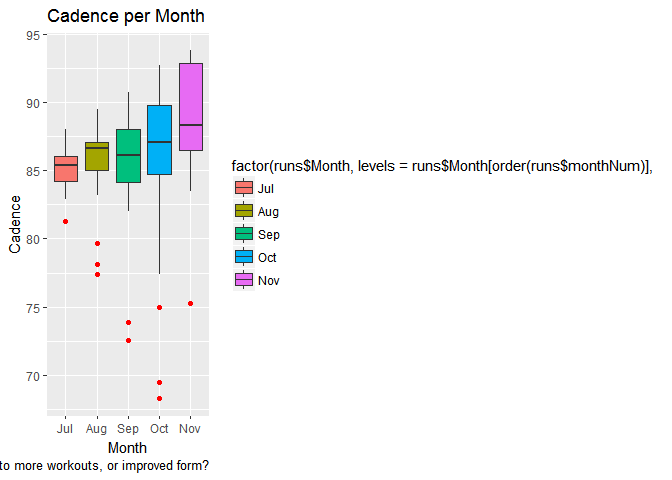
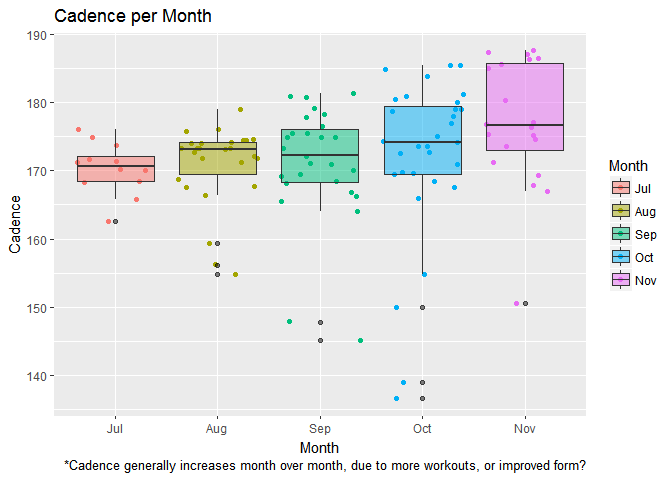
Edit new changes to different variables in dataset, edit some visualizations, and add some new visualizations

diff --git a/R_Analysis_git.md b/R_Analysis_git.md
@@ -16,64 +16,86 @@ runs <- read.csv("cleanedMarathonTrainingData.csv")
 str(runs)
 ```
 
-    ## 'data.frame':    117 obs. of  19 variables:
-    ##  $ X                  : int  12 15 94 4 6 8 13 16 95 5 ...
-    ##  $ ID                 : int  646029304 647216014 648410753 649445500 650512799 651933678 653912805 655096239 656203325 657259723 ...
-    ##  $ Name               : Factor w/ 13 levels "10k Tune Up Run",..: 2 7 10 3 10 4 3 7 10 7 ...
-    ##  $ Gear               : Factor w/ 4 levels "ASICS dunno Black, Yellow, Red",..: 2 2 1 2 1 2 2 2 1 2 ...
-    ##  $ Date               : Factor w/ 116 levels "2016-07-19","2016-07-20",..: 1 2 3 4 5 6 7 8 9 10 ...
-    ##  $ Month              : Factor w/ 5 levels "Aug","Jul","Nov",..: 2 2 2 2 2 2 2 2 2 2 ...
-    ##  $ monthNum           : int  7 7 7 7 7 7 7 7 7 7 ...
-    ##  $ DOW                : Factor w/ 7 levels "Fri","Mon","Sat",..: 6 7 5 1 3 4 6 7 5 1 ...
-    ##  $ StartTime          : Factor w/ 90 levels "10:01","10:09",..: 58 51 67 46 71 76 46 37 64 36 ...
-    ##  $ Distance           : num  9.01 11 4 11 6 ...
-    ##  $ Time               : Factor w/ 115 levels "1:00:53","1:02:08",..: 4 23 81 28 98 60 13 41 72 37 ...
-    ##  $ Avg.Speed.Avg.Pace.: Factor w/ 68 levels "6:32","6:54",..: 13 32 58 38 55 39 33 41 48 49 ...
-    ##  $ Speed.mph          : num  3.72 3.54 3.29 3.49 3.33 ...
-    ##  $ Cad                : num  84.2 84.2 85.6 88 86.9 85 82.9 87.4 85.8 85.1 ...
-    ##  $ Elevation.Gain     : Factor w/ 92 levels "--","0","13",..: 37 56 1 58 15 80 48 61 1 60 ...
-    ##  $ Avg.HR             : Factor w/ 39 levels "--","100","113",..: 34 35 24 35 17 37 35 31 19 34 ...
-    ##  $ Max.HR             : Factor w/ 49 levels "--","118","122",..: 37 30 19 31 25 35 29 28 13 30 ...
-    ##  $ Calories           : Factor w/ 113 levels "1,018","1,021",..: 110 19 71 18 94 46 11 28 62 22 ...
-    ##  $ RunType            : Factor w/ 5 levels "Long Run","Race",..: 5 4 3 4 3 1 4 4 3 4 ...
+    ## 'data.frame':    116 obs. of  19 variables:
+    ##  $ X             : int  12 15 94 4 6 8 13 16 95 5 ...
+    ##  $ ID            : int  646029304 647216014 648410753 649445500 650512799 651933678 653912805 655096239 656203325 657259723 ...
+    ##  $ Name          : Factor w/ 13 levels "10k Tune Up Run",..: 2 7 10 3 10 4 3 7 10 7 ...
+    ##  $ Gear          : Factor w/ 4 levels "ASICS dunno Black, Yellow, Red",..: 2 2 1 2 1 2 2 2 1 2 ...
+    ##  $ Date          : Factor w/ 116 levels "2016-07-19","2016-07-20",..: 1 2 3 4 5 6 7 8 9 10 ...
+    ##  $ Month         : Factor w/ 5 levels "Aug","Jul","Nov",..: 2 2 2 2 2 2 2 2 2 2 ...
+    ##  $ monthNum      : int  7 7 7 7 7 7 7 7 7 7 ...
+    ##  $ DOW           : Factor w/ 7 levels "Fri","Mon","Sat",..: 6 7 5 1 3 4 6 7 5 1 ...
+    ##  $ StartTime     : Factor w/ 89 levels "10:01","10:09",..: 57 50 66 45 70 75 45 36 63 35 ...
+    ##  $ Distance      : num  9.01 11 4 11 6 ...
+    ##  $ Time          : Factor w/ 114 levels "2017-03-08 00:07:43",..: 50 69 14 74 31 103 59 87 6 83 ...
+    ##  $ Speed.mph     : num  3.72 3.54 3.29 3.49 3.33 ...
+    ##  $ Cad           : num  168 168 171 176 174 ...
+    ##  $ Elevation.Gain: int  351 461 NA 468 230 572 400 485 NA 477 ...
+    ##  $ Avg.HR        : int  149 150 139 150 131 154 150 146 134 149 ...
+    ##  $ Max.HR        : int  167 160 149 161 155 165 159 158 142 160 ...
+    ##  $ Calories      : int  943 1176 442 1170 721 1653 1090 1318 314 1241 ...
+    ##  $ RunType       : Factor w/ 5 levels "Long Run","Race",..: 5 4 3 4 3 1 4 4 3 4 ...
+    ##  $ Avg.Pace      : Factor w/ 67 levels "2017-03-08 00:06:32",..: 13 32 57 38 55 39 33 41 48 49 ...
 
 remove 1st col
 ==============
 
 ``` r
 runs$X <- NULL
+head(runs,2)
+```
+
+    ##          ID           Name                   Gear       Date Month
+    ## 1 646029304 Classic LT Run Brooks Ghost Red/Black 2016-07-19   Jul
+    ## 2 647216014         ML Run Brooks Ghost Red/Black 2016-07-20   Jul
+    ##   monthNum DOW StartTime Distance                Time Speed.mph   Cad
+    ## 1        7 Tue      5:51     9.01 2017-03-08 01:04:59    3.7179 168.4
+    ## 2        7 Wed      5:36    11.00 2017-03-08 01:23:29    3.5350 168.4
+    ##   Elevation.Gain Avg.HR Max.HR Calories RunType            Avg.Pace
+    ## 1            351    149    167      943 Workout 2017-03-08 00:07:13
+    ## 2            461    150    160     1176     Run 2017-03-08 00:07:35
+
+can't save POSIXct into CSV, must change here
+=============================================
+
+``` r
+runs$Time <- as.POSIXct(runs$Time)#, format = '%H:%M:%S')
+runs$Avg.Pace <- as.POSIXct(runs$Avg.Pace)#, format = '%H:%M:%S')
 str(runs)
 ```
 
-    ## 'data.frame':    117 obs. of  18 variables:
-    ##  $ ID                 : int  646029304 647216014 648410753 649445500 650512799 651933678 653912805 655096239 656203325 657259723 ...
-    ##  $ Name               : Factor w/ 13 levels "10k Tune Up Run",..: 2 7 10 3 10 4 3 7 10 7 ...
-    ##  $ Gear               : Factor w/ 4 levels "ASICS dunno Black, Yellow, Red",..: 2 2 1 2 1 2 2 2 1 2 ...
-    ##  $ Date               : Factor w/ 116 levels "2016-07-19","2016-07-20",..: 1 2 3 4 5 6 7 8 9 10 ...
-    ##  $ Month              : Factor w/ 5 levels "Aug","Jul","Nov",..: 2 2 2 2 2 2 2 2 2 2 ...
-    ##  $ monthNum           : int  7 7 7 7 7 7 7 7 7 7 ...
-    ##  $ DOW                : Factor w/ 7 levels "Fri","Mon","Sat",..: 6 7 5 1 3 4 6 7 5 1 ...
-    ##  $ StartTime          : Factor w/ 90 levels "10:01","10:09",..: 58 51 67 46 71 76 46 37 64 36 ...
-    ##  $ Distance           : num  9.01 11 4 11 6 ...
-    ##  $ Time               : Factor w/ 115 levels "1:00:53","1:02:08",..: 4 23 81 28 98 60 13 41 72 37 ...
-    ##  $ Avg.Speed.Avg.Pace.: Factor w/ 68 levels "6:32","6:54",..: 13 32 58 38 55 39 33 41 48 49 ...
-    ##  $ Speed.mph          : num  3.72 3.54 3.29 3.49 3.33 ...
-    ##  $ Cad                : num  84.2 84.2 85.6 88 86.9 85 82.9 87.4 85.8 85.1 ...
-    ##  $ Elevation.Gain     : Factor w/ 92 levels "--","0","13",..: 37 56 1 58 15 80 48 61 1 60 ...
-    ##  $ Avg.HR             : Factor w/ 39 levels "--","100","113",..: 34 35 24 35 17 37 35 31 19 34 ...
-    ##  $ Max.HR             : Factor w/ 49 levels "--","118","122",..: 37 30 19 31 25 35 29 28 13 30 ...
-    ##  $ Calories           : Factor w/ 113 levels "1,018","1,021",..: 110 19 71 18 94 46 11 28 62 22 ...
-    ##  $ RunType            : Factor w/ 5 levels "Long Run","Race",..: 5 4 3 4 3 1 4 4 3 4 ...
+    ## 'data.frame':    116 obs. of  18 variables:
+    ##  $ ID            : int  646029304 647216014 648410753 649445500 650512799 651933678 653912805 655096239 656203325 657259723 ...
+    ##  $ Name          : Factor w/ 13 levels "10k Tune Up Run",..: 2 7 10 3 10 4 3 7 10 7 ...
+    ##  $ Gear          : Factor w/ 4 levels "ASICS dunno Black, Yellow, Red",..: 2 2 1 2 1 2 2 2 1 2 ...
+    ##  $ Date          : Factor w/ 116 levels "2016-07-19","2016-07-20",..: 1 2 3 4 5 6 7 8 9 10 ...
+    ##  $ Month         : Factor w/ 5 levels "Aug","Jul","Nov",..: 2 2 2 2 2 2 2 2 2 2 ...
+    ##  $ monthNum      : int  7 7 7 7 7 7 7 7 7 7 ...
+    ##  $ DOW           : Factor w/ 7 levels "Fri","Mon","Sat",..: 6 7 5 1 3 4 6 7 5 1 ...
+    ##  $ StartTime     : Factor w/ 89 levels "10:01","10:09",..: 57 50 66 45 70 75 45 36 63 35 ...
+    ##  $ Distance      : num  9.01 11 4 11 6 ...
+    ##  $ Time          : POSIXct, format: "2017-03-08 01:04:59" "2017-03-08 01:23:29" ...
+    ##  $ Speed.mph     : num  3.72 3.54 3.29 3.49 3.33 ...
+    ##  $ Cad           : num  168 168 171 176 174 ...
+    ##  $ Elevation.Gain: int  351 461 NA 468 230 572 400 485 NA 477 ...
+    ##  $ Avg.HR        : int  149 150 139 150 131 154 150 146 134 149 ...
+    ##  $ Max.HR        : int  167 160 149 161 155 165 159 158 142 160 ...
+    ##  $ Calories      : int  943 1176 442 1170 721 1653 1090 1318 314 1241 ...
+    ##  $ RunType       : Factor w/ 5 levels "Long Run","Race",..: 5 4 3 4 3 1 4 4 3 4 ...
+    ##  $ Avg.Pace      : POSIXct, format: "2017-03-08 00:07:13" "2017-03-08 00:07:35" ...
 
-put month name labels to monthNum to display names in numerical in order
-========================================================================
+can't save ordered factors in CSV, must change here
+===================================================
 
 ``` r
-runs$monthNum <- factor(runs$monthNum,labels = unique(runs$Month[order(runs$monthNum)]))
+runs$Month <- factor(runs$Month, ordered = TRUE, levels = c("Jul","Aug","Sep","Oct","Nov"))
+class(runs$Month)
 ```
 
-load ggplot2
-============
+    ## [1] "ordered" "factor"
+
+load ggplot2 + make histogram
+=============================
 
 ``` r
 library(ggplot2)
@@ -84,17 +106,30 @@ ggplot(data = runs, aes(x = Distance)) +
   xlab("Distance (mi)") + 
   ylab("Frequency") + 
   ggtitle("Distribution of Miles Ran in All Runs") + 
-  labs(caption="*Majority of runs were between 9 and 11 miles, with a suprisingly low number of runs between 7 and 9 miles")
+  labs(caption="*Majority of runs were between 9 and 11 miles, 
+       with a suprisingly low number of runs between 7 and 9 miles")
 ```
 
 ![](R_Analysis_git_files/figure-markdown_github/plotting-1.png)
 
 ``` r
-ggplot(data = runs, aes(x = monthNum, y = Distance, fill = Month)) + 
+#check data
+tapply(runs$Distance,runs$Month,sum)
+```
+
+    ##    Jul    Aug    Sep    Oct    Nov 
+    ## 118.08 250.08 308.14 304.45 168.44
+
+miles by month bars
+===================
+
+``` r
+ggplot(data = runs, aes(x = Month, y = Distance, fill = Month)) + 
   geom_bar(stat="identity") +
   xlab("Month") + 
   ylab("Total Miles") + 
-  coord_flip() + 
+  #coord_flip() + 
+  #scale_x_discrete(limits = rev(levels(runs$Month))) +
   #geom_text(vjust=0, colour="red") +
   ggtitle("Sum of Miles by Month") + 
   labs(caption="*The largest number of miles ran, 308 miles, was in September")
@@ -102,51 +137,70 @@ ggplot(data = runs, aes(x = monthNum, y = Distance, fill = Month)) +
 
 ![](R_Analysis_git_files/figure-markdown_github/miles%20by%20month-1.png)
 
+avg. cadence grouped by month
+=============================
+
 ``` r
-ggplot(data = runs, aes(monthNum, Cad)) + 
-  geom_boxplot(aes(fill = factor(runs$Month, levels = runs$Month[order(runs$monthNum)], ordered = TRUE)), 
-               outlier.colour = "red") + #geom_jitter()
+ggplot(data = runs, aes(Month, Cad)) + 
+  geom_jitter(aes(colour = Month)) +
+  geom_boxplot(aes(fill = Month), 
+               outlier.colour = "black", alpha = 0.5) + #geom_jitter()
   xlab("Month") + 
   ylab("Cadence") + 
   ggtitle("Cadence per Month") + 
   labs(caption="*Cadence generally increases month over month, due to more workouts, or improved form?")
 ```
 
-    ## Warning in `levels<-`(`*tmp*`, value = if (nl == nL) as.character(labels)
-    ## else paste0(labels, : duplicated levels in factors are deprecated
-
-    ## Warning in `levels<-`(`*tmp*`, value = if (nl == nL) as.character(labels)
-    ## else paste0(labels, : duplicated levels in factors are deprecated
-
-    ## Warning in `levels<-`(`*tmp*`, value = if (nl == nL) as.character(labels)
-    ## else paste0(labels, : duplicated levels in factors are deprecated
-
-    ## Warning in `levels<-`(`*tmp*`, value = if (nl == nL) as.character(labels)
-    ## else paste0(labels, : duplicated levels in factors are deprecated
-
-    ## Warning in `levels<-`(`*tmp*`, value = if (nl == nL) as.character(labels)
-    ## else paste0(labels, : duplicated levels in factors are deprecated
-
-    ## Warning in `levels<-`(`*tmp*`, value = if (nl == nL) as.character(labels)
-    ## else paste0(labels, : duplicated levels in factors are deprecated
-
-    ## Warning in `levels<-`(`*tmp*`, value = if (nl == nL) as.character(labels)
-    ## else paste0(labels, : duplicated levels in factors are deprecated
-
-    ## Warning in `levels<-`(`*tmp*`, value = if (nl == nL) as.character(labels)
-    ## else paste0(labels, : duplicated levels in factors are deprecated
-
 ![](R_Analysis_git_files/figure-markdown_github/cadence%20by%20month-1.png)
+
+avg. HR grouped by month
+========================
+
+``` r
+ggplot(data = runs, aes(Month, Avg.HR)) + 
+  geom_jitter(aes(colour = Month)) +
+  geom_boxplot(aes(fill = Month), 
+               outlier.colour = "black", alpha = 0.5) + #geom_jitter()
+  xlab("Month") + 
+  ylab("Cadence") + 
+  ggtitle("Cadence per Month") + 
+  labs(caption="*HR generally decreases month over month --> increased fitness or cooler weather?")
+```
+
+![](R_Analysis_git_files/figure-markdown_github/HR%20by%20month%20boxplot-1.png)
+
+``` r
+#tbl <- tapply(runs$Avg.HR,runs$Month,median)
+```
+
+average heart rate per run over plan --&gt; line
+================================================
 
 ``` r
 ggplot(data = runs, aes(x = Date, y = Avg.HR)) + 
   geom_line(aes(group=1)) +
-  theme(axis.text.x = element_text(size=0, angle=45)) +
+  theme(axis.text.x = element_blank()) +
   xlab("Time") + 
   ylab("Average Heart Rate") + 
   ggtitle("Average Heart Rate Over Time") + 
-  labs(caption="*Looks like a very slight general decrease, with an outlier of about 100 in the 1st third of the plan
-      and 70 in the last 3rd of the plan")
+  labs(caption="*Very slight general decrease, with outliers of about 100 in the 1st third of the plan and 
+70 in the last 3rd of the plan")
 ```
 
 ![](R_Analysis_git_files/figure-markdown_github/HR%20over%20time-1.png)
+
+average pace over plan line
+===========================
+
+``` r
+ggplot(data = runs, aes(x = Date, y = Avg.Pace)) + 
+  geom_point() + # by color? 
+  #?stat_smooth() + 
+  theme(axis.text.x = element_blank()) +
+  xlab("Time") + 
+  ylab("Average Heart Rate") + 
+  ggtitle("Average Heart Rate Over Time") + 
+  labs(caption="*Very slight general decrease, but not linear")
+```
+
+![](R_Analysis_git_files/figure-markdown_github/avg%20pace-1.png)
